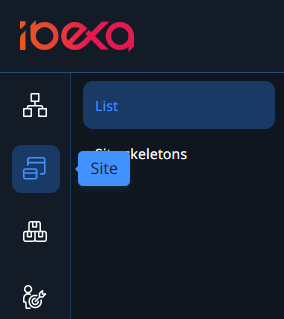
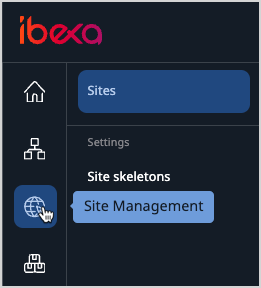
Work with sites page updated

diff --git a/docs/website_organization/work_with_sites.md b/docs/website_organization/work_with_sites.md
@@ -7,14 +7,14 @@ edition: experience
 
 If multisite support is enabled for your instance of [[= product_name =]], you can 
 use Site Factory to create and manage multiple websites from one place.
-These websites can, for example, be in different languages, or customised for 
+These websites can, for example, be in different languages, or customized for 
 different audiences, and still be kept in the Repository of your installation.
 To be able to use it, the Site Factory has to be enabled and configured by the administrator.
-For more information see developer documentation on [Site Factory]([[= developer_doc =]]/multisite/site_factory/site_factory).
+For more information, see developer documentation on [Site Factory]([[= developer_doc =]]/multisite/site_factory/site_factory).
 
 ## Create a website
 
-To access Site Factory, in the leftmost pane, click the **Site management* icon and then **List**.
+To access Site Factory, in the left panel, click the **Site Management** icon and then **Sites**.
 If Site Factory is enabled, and you have sufficient permissions, you should see 
 the **Create** button. Click it to access the **Creating New Site** modal.
 
@@ -22,9 +22,9 @@ the **Create** button. Click it to access the **Creating New Site** modal.
 
 Here, you can create an entirely new website or a different language version of 
 an already existing website.
-First, you select a name, a predefined design, and a Parent Location for your website.
+First, select a name, a predefined design, and a Parent Location for your website.
 
-![Create a new website step one](img/site_factory_new_site_step_1.png)
+![Create a new website - step one](img/site_factory_new_site_step_1.png)
 
 If the design defines a Site skeleton, you can choose if you want to copy the entire content structure of the design with a toggle.
 To preview the Site skeleton architecture, click **Site management**, and then **Site skeletons**.
@@ -39,9 +39,9 @@ In this section you also define the SiteAccess URL addresses with their main lan
 
 For more information about SiteAccesses, see [Multisite]([[= developer_doc =]]/multisite/multisite/).
 
-![Create a new website step two](img/site_factory_new_site_step_2.png)
+![Create a new website - step two](img/site_factory_new_site_step_2.png)
 
-If all required fields are filled out you can select **Create**, and the website is be added to the website list in the **Site management** area.
+If all required fields are filled out, click **Save and close** to create new website and add it to the website list in the **Site management** area.
 
 !!! note
 
@@ -50,9 +50,14 @@ If all required fields are filled out you can select **Create**, and the website
     For example, if you create a website that uses the `fr` path in Site Factory, and the administrator 
     defines a French website manually in configuration files, your website is ignored by the system.
 
+You can see all the details of created website.
+To do it, go to **Site management** -> **Sites** and click the three dots icon next to the website name. Then, select **Site details**.
+
+![Site details](img/site_details.png)
+
 ## Edit an existing website
 
-To edit the website select **Site settings** icon that is situated next to the website name.
+To edit the website, click the three dots icon that is situated next to the website name, and select **Site settings**.
 Here, you can edit all the elements you selected during creation of the website:
 
 - name
